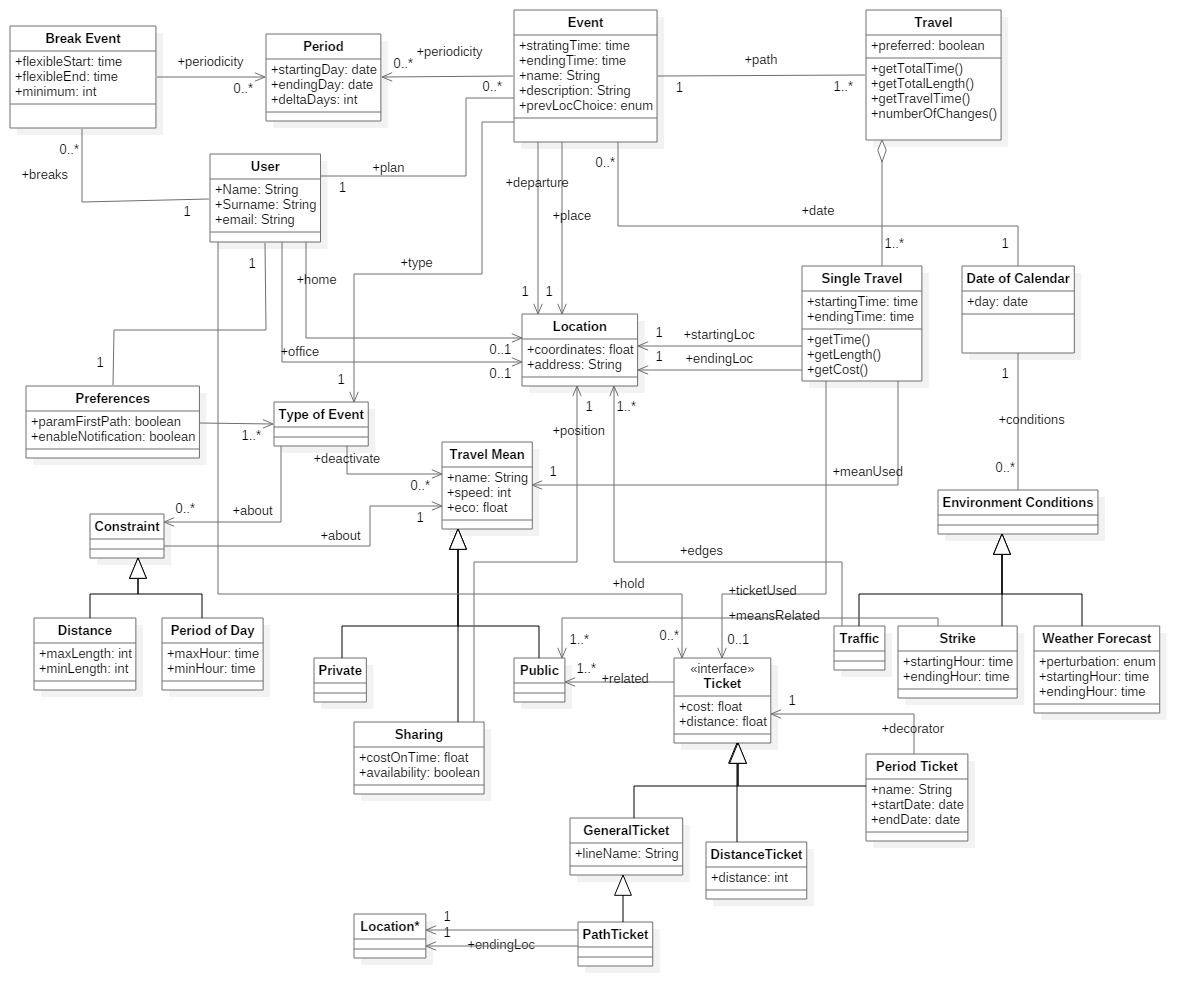
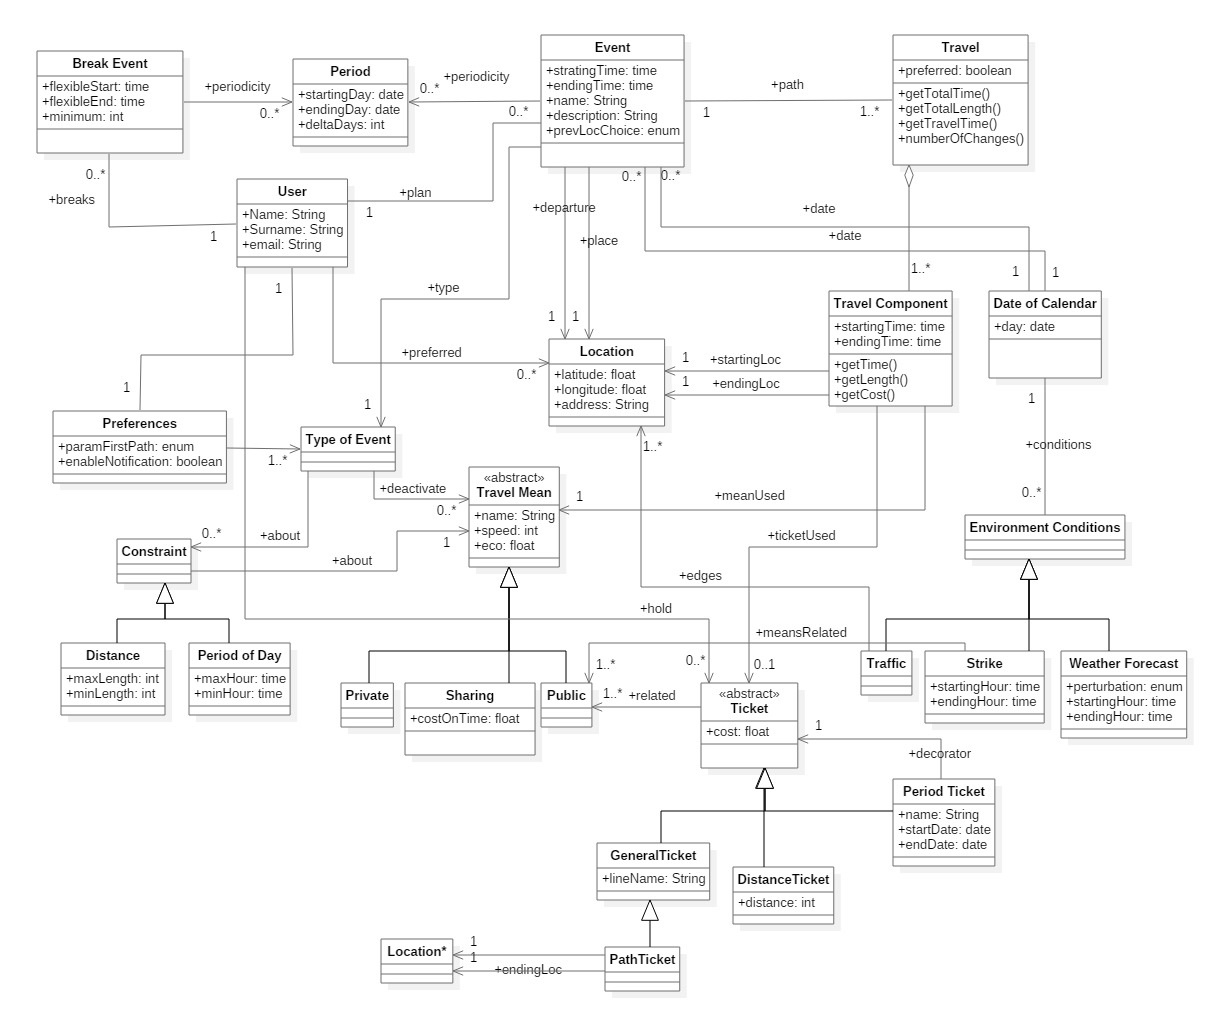
Class diagram modified

Changed region(s): [[0.0, 0.0, 0.9875, 0.9553], [0.6789, 0.0, 0.8641, 0.1849], [0.6172, 0.0616, 0.648, 0.0924]]

diff --git a/RASD/2-OverallDescription/classDiagram.tex b/RASD/2-OverallDescription/classDiagram.tex
@@ -1,12 +1,12 @@
 \subsection{Class Diagram}
 \noindent\makebox[\textwidth]{\includegraphics[width=\paperwidth,height=\paperheight,keepaspectratio]{class_diagram.jpg}}
 \newline
-An \textit{Event} is associated to one or more \textit{Travels}, a \textit{Travel} proposed requires the use of one or more \textit{Travel means}. The path of a \textit{Travel} that include different \textit{Travel Means} needs a structure where every \textit{Single Travel} (the path that can be performed with the same \textit{Travel Mean}), is memorized. Through a vector, an object of the \textit{Travel} class contains each \textit{Single Travel}.
+An \textit{Event} is associated to one or more \textit{Travels}, a \textit{Travel} proposed requires the use of one or more \textit{Travel means}. The path of a \textit{Travel} that include different \textit{Travel Means} needs a structure where every \textit{Single Travel} (the path that can be performed with the same \textit{Travel Mean}), is memorized. Through a vector, an object of the \textit{Travel} class contains each \textit{Travel Component}.
 \newline
 \newline
 \textit{Travel} class has the attribute \textit{preferred}: a Boolean value that identifies the path showed in the daily schedule for an inserted \textit{Event}. It must be checked that, for each \textit{Event}, only one \textit{Travel} is marked as preferred.
 \newline
-If a proposed path has different \textit{Single Travels}, information about time and length are provided by methods of the \textit{Travel} class that combine the values found in each related object of the\textit{Single Travel} class.
+If a proposed path has different \textit{Travel Components}, information about time and length are provided by methods of the \textit{Travel} class that combine the values found in each related object of the\textit{Travel Component} class.
 \newline
 \newline
 To represent \textit{Tickets} we use a hierarchy of classes: \textit{Distance Ticket} is used for tickets whose validity is indicated with a length, \textit{General Ticket} is used for particular tickets that allow the user to travel without constraints in a specified area, \textit{Path Ticket} is used when departure and arrival locations are indicated on the ticket. 
